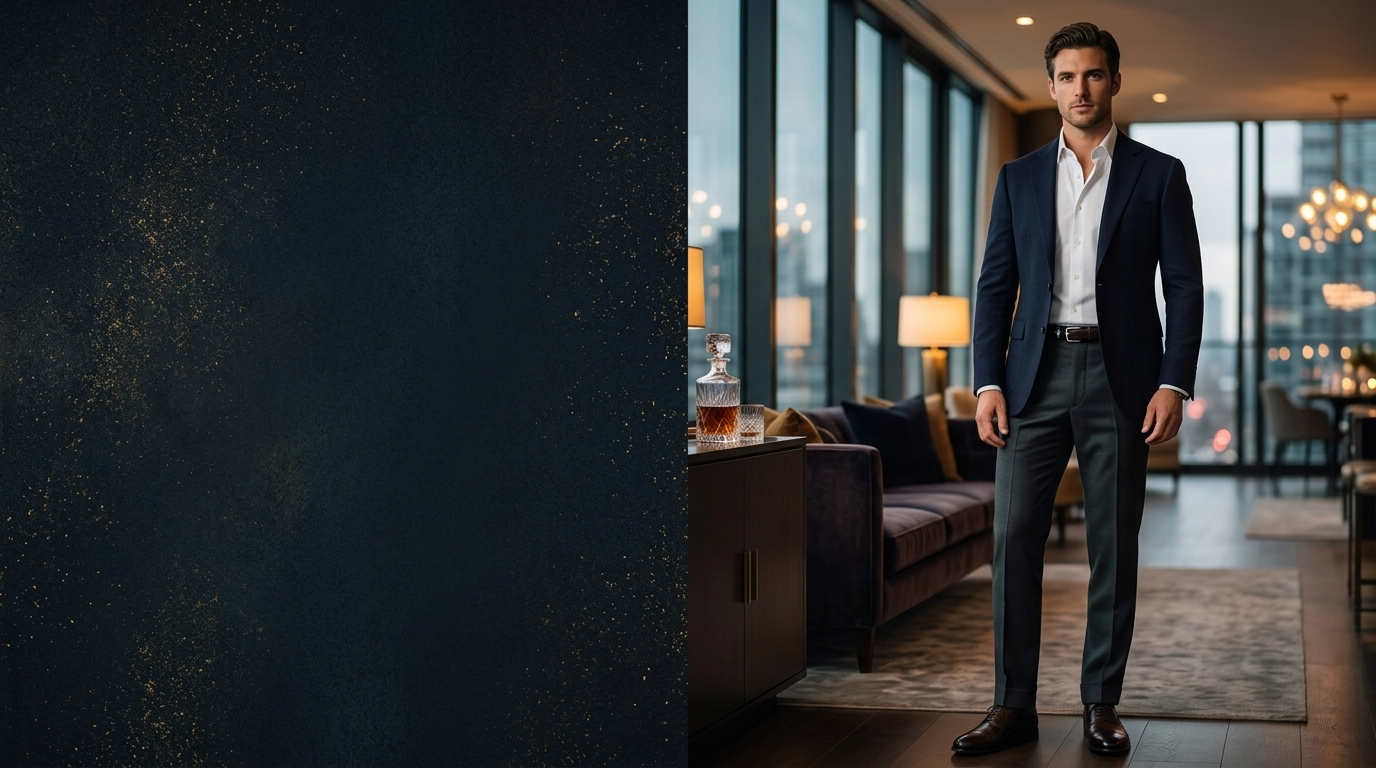
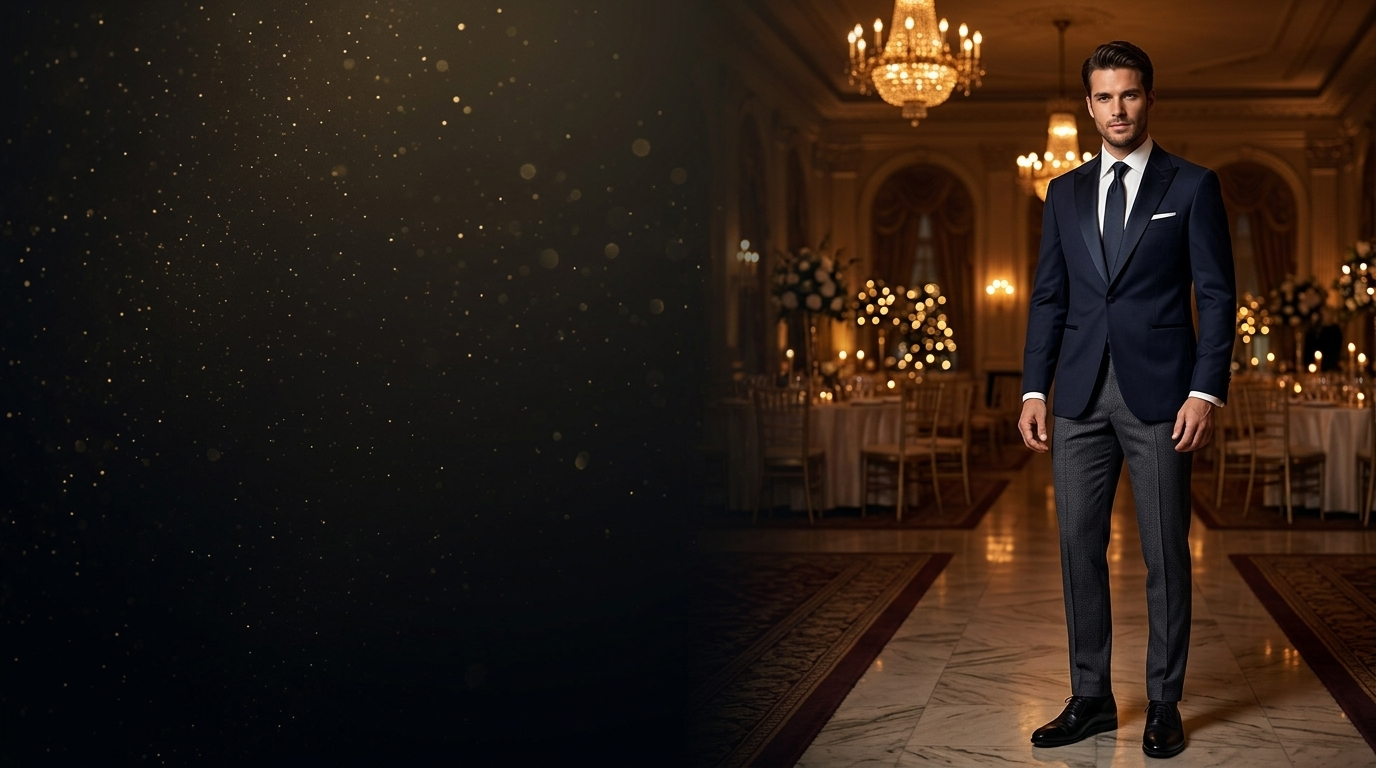
feat: formal wear pants for festive gala and 25% off round off on admin product page

diff --git a/src/app/admin/products/ProductForm.tsx b/src/app/admin/products/ProductForm.tsx
@@ -393,6 +393,21 @@ export default function ProductForm({
     active: initialData?.active ?? true,
   });
 
+  // 25% Off calculation state for admin pricing
+  const [autoApplyDiscount, setAutoApplyDiscount] = useState<boolean>(true);
+
+  const apply25PercentDiscount = (actualPriceInput?: string | number) => {
+    const raw = actualPriceInput !== undefined ? actualPriceInput : formData.comparePrice;
+    const num = parseFloat(String(raw).replace(/[^0-9.]/g, ""));
+    if (!isNaN(num) && num > 0) {
+      const roundedPrice = Math.round(num * 0.75);
+      setFormData((prev) => ({
+        ...prev,
+        price: String(roundedPrice),
+      }));
+    }
+  };
+
   // Sizes parsing
   const parseInitialSizes = (): string[] => {
     if (!initialData?.sizes) return [...CLOTHING_SIZES];
@@ -770,6 +785,19 @@ export default function ProductForm({
     } else if (name === "price" || name === "comparePrice") {
       // Strip currency signs and stray commas cleanly
       cleanValue = value.replace(/[^\d.]/g, "");
+    }
+
+    if (name === "comparePrice" && autoApplyDiscount) {
+      const num = parseFloat(cleanValue);
+      if (!isNaN(num) && num > 0) {
+        const roundedPrice = Math.round(num * 0.75);
+        setFormData((prev) => ({
+          ...prev,
+          comparePrice: cleanValue,
+          price: String(roundedPrice),
+        }));
+        return;
+      }
     }
 
     setFormData((prev) => ({
@@ -1907,34 +1935,42 @@ export default function ProductForm({
         )}
       </div>
 
-      {/* 6. Pricing (INR ₹) */}
+      {/* 6. Pricing & 25% Off Discount (INR ₹) */}
       <div className="bg-white rounded-2xl border border-gray-200 p-6 sm:p-8 shadow-xs space-y-6">
-        <h2 className="text-lg font-bold text-gray-900 border-b border-gray-100 pb-3">
-          Pricing (₹ INR)
-        </h2>
+        <div className="flex flex-col sm:flex-row sm:items-center sm:justify-between gap-3 border-b border-gray-100 pb-4">
+          <div>
+            <h2 className="text-lg font-bold text-gray-900">
+              Pricing & 25% Off Discount (₹ INR)
+            </h2>
+            <p className="text-xs text-gray-500 mt-0.5">
+              Set the actual price (MRP) and calculate 25% OFF rounded price automatically.
+            </p>
+          </div>
+          <label className="flex items-center gap-2 cursor-pointer select-none px-3 py-1.5 rounded-lg bg-gray-50 border border-gray-200 text-xs font-semibold text-gray-700 hover:bg-gray-100 transition-colors">
+            <input
+              type="checkbox"
+              checked={autoApplyDiscount}
+              onChange={(e) => {
+                const checked = e.target.checked;
+                setAutoApplyDiscount(checked);
+                if (checked && formData.comparePrice) {
+                  apply25PercentDiscount(formData.comparePrice);
+                }
+              }}
+              className="w-4 h-4 rounded border-gray-300 text-black focus:ring-black"
+            />
+            <span>Auto 25% OFF (Round off)</span>
+          </label>
+        </div>
 
         <div className="grid grid-cols-1 sm:grid-cols-2 gap-6">
           <div>
-            <label className="block text-xs font-semibold uppercase tracking-wider text-gray-700 mb-1.5">
-              Selling Price (₹) *
-            </label>
-            <input
-              type="number"
-              step="any"
-              min="0"
-              name="price"
-              required
-              value={formData.price}
-              onChange={handleChange}
-              placeholder="1290.00"
-              className="w-full px-3.5 py-2.5 rounded-xl border border-gray-300 text-sm focus:outline-hidden focus:ring-2 focus:ring-black focus:border-transparent transition-all"
-            />
-          </div>
-
-          <div>
-            <label className="block text-xs font-semibold uppercase tracking-wider text-gray-700 mb-1.5">
-              Compare at Regular Price (₹)
-            </label>
+            <div className="flex items-center justify-between mb-1.5">
+              <label className="block text-xs font-semibold uppercase tracking-wider text-gray-700">
+                Actual Price / MRP (₹)
+              </label>
+              <span className="text-[11px] font-medium text-gray-400">Regular Store Price</span>
+            </div>
             <input
               type="number"
               step="any"
@@ -1943,13 +1979,74 @@ export default function ProductForm({
               value={formData.comparePrice}
               onChange={handleChange}
               placeholder="1700.00"
-              className="w-full px-3.5 py-2.5 rounded-xl border border-gray-300 text-sm focus:outline-hidden focus:ring-2 focus:ring-black focus:border-transparent transition-all"
+              className="w-full px-3.5 py-2.5 rounded-xl border border-gray-300 text-sm focus:outline-hidden focus:ring-2 focus:ring-black focus:border-transparent transition-all font-mono"
             />
             <p className="text-xs text-gray-500 mt-1">
-              Original regular price before discount (optional for strikethrough)
+              Original regular price before discount (used for strikethrough & 25% OFF calculation)
+            </p>
+          </div>
+
+          <div>
+            <div className="flex items-center justify-between mb-1.5">
+              <label className="block text-xs font-semibold uppercase tracking-wider text-gray-700">
+                Selling Price (₹) *
+              </label>
+              {Number(formData.comparePrice) > 0 && (
+                <button
+                  type="button"
+                  onClick={() => apply25PercentDiscount(formData.comparePrice)}
+                  className="inline-flex items-center gap-1 text-[11px] font-bold text-emerald-700 bg-emerald-50 hover:bg-emerald-100 border border-emerald-200 px-2 py-0.5 rounded-md transition-colors cursor-pointer"
+                  title="Recalculate 25% OFF on Actual Price (Round off)"
+                >
+                  ⚡ Apply 25% OFF (₹{Math.round(Number(formData.comparePrice) * 0.75)})
+                </button>
+              )}
+            </div>
+            <input
+              type="number"
+              step="any"
+              min="0"
+              name="price"
+              required
+              value={formData.price}
+              onChange={handleChange}
+              placeholder="1275.00"
+              className="w-full px-3.5 py-2.5 rounded-xl border border-gray-300 text-sm focus:outline-hidden focus:ring-2 focus:ring-black focus:border-transparent transition-all font-mono"
+            />
+            <p className="text-xs text-gray-500 mt-1">
+              Final customer price charged at checkout (can be set manually or via 25% OFF)
             </p>
           </div>
         </div>
+
+        {/* 25% OFF Discount Summary Banner with Round Off Details */}
+        {Number(formData.comparePrice) > 0 && (
+          <div className="p-3.5 rounded-xl bg-gradient-to-r from-amber-50 to-emerald-50 border border-amber-200/80 flex flex-wrap items-center justify-between gap-3 text-xs">
+            <div className="flex flex-wrap items-center gap-2 text-gray-800">
+              <span className="font-extrabold bg-amber-200 text-amber-950 px-2 py-0.5 rounded-md text-[11px] tracking-wide">
+                25% OFF APPLIED
+              </span>
+              <span>
+                Actual: <strong className="font-semibold text-gray-900 font-mono">₹{Number(formData.comparePrice).toLocaleString("en-IN")}</strong>
+                {" − 25% = "}
+                <span className="text-gray-500 font-mono">₹{(Number(formData.comparePrice) * 0.75).toFixed(2)}</span>
+                {" → "}
+                Round off: <strong className="font-bold text-emerald-700 text-sm font-mono">₹{Math.round(Number(formData.comparePrice) * 0.75).toLocaleString("en-IN")}</strong>
+              </span>
+              <span className="text-gray-500 hidden sm:inline">
+                (Customer saves ₹{Math.max(0, Math.round(Number(formData.comparePrice) - Math.round(Number(formData.comparePrice) * 0.75))).toLocaleString("en-IN")})
+              </span>
+            </div>
+
+            <button
+              type="button"
+              onClick={() => apply25PercentDiscount(formData.comparePrice)}
+              className="px-3 py-1 rounded-lg bg-black text-white font-bold text-xs hover:bg-neutral-800 transition-transform active:scale-95 cursor-pointer shadow-xs"
+            >
+              Set ₹{Math.round(Number(formData.comparePrice) * 0.75).toLocaleString("en-IN")}
+            </button>
+          </div>
+        )}
       </div>
 
       {/* 6. Status & Storefront Display */}

diff --git a/src/components/home/HeroCarousel.tsx b/src/components/home/HeroCarousel.tsx
@@ -205,7 +205,7 @@ export default function HeroCarousel() {
                     {slide.type === "festival" && (
                       <span className="inline-flex items-center gap-1.5 px-3 py-1 rounded-full text-[11px] font-bold tracking-widest uppercase bg-amber-400/20 text-amber-300 border border-amber-400/40">
                         <Flame className="w-3.5 h-3.5 text-amber-400" />
-                        <span>FESTIVE COLLECTION 2026</span>
+                        <span>FESTIVE GALA • FORMAL WEAR</span>
                       </span>
                     )}
 
